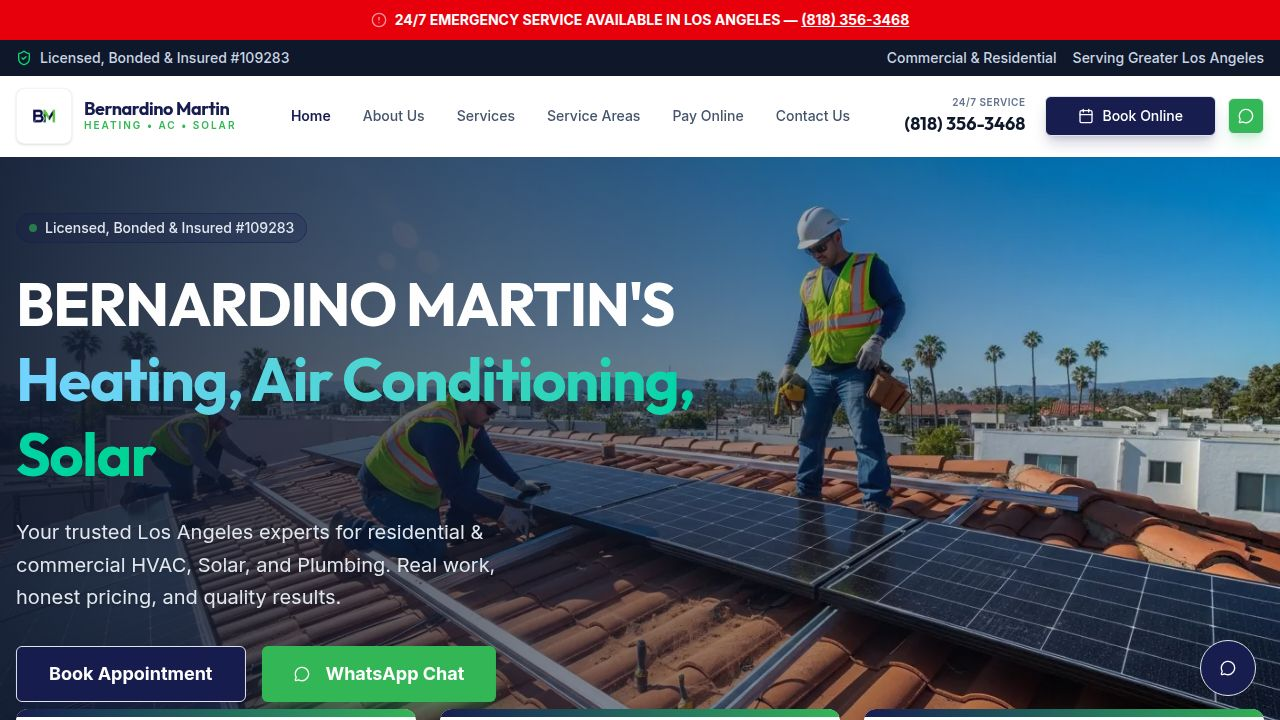
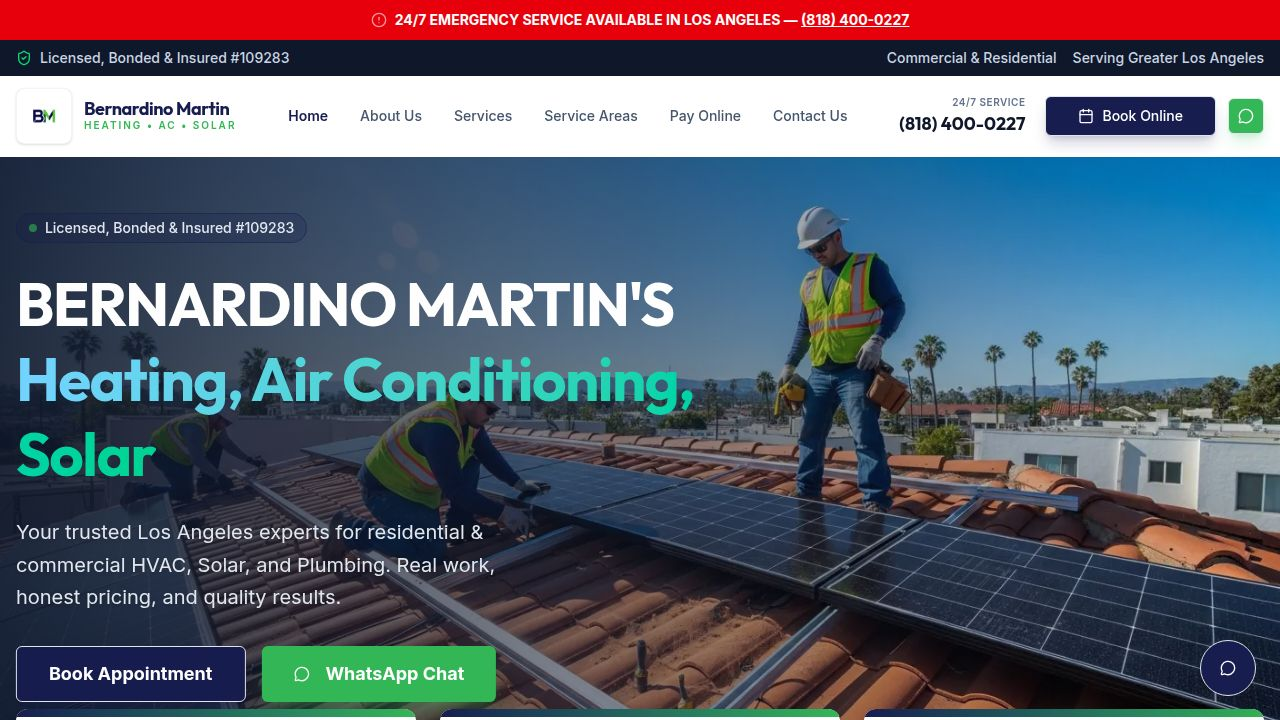
Update company phone number across the entire website
Update the main company phone number and WhatsApp contact number in constants, meta tags, and documentation files to reflect the new number (818) 400-0227.

Replit-Commit-Author: Agent
Replit-Commit-Session-Id: 8f2a5565-2991-4a3f-bda9-e9a005cc0596
Replit-Commit-Checkpoint-Type: full_checkpoint
Replit-Commit-Event-Id: 15adadcb-a021-4114-baa9-52d3e17c68fc
Replit-Commit-Screenshot-Url: https://storage.googleapis.com/screenshot-production-us-central1/9303f534-1fa0-476c-8054-7c4ab3cf4be2/8f2a5565-2991-4a3f-bda9-e9a005cc0596/9RzI3pu
Replit-Helium-Checkpoint-Created: true

diff --git a/client/index.html b/client/index.html
@@ -4,7 +4,7 @@
     <meta charset="UTF-8" />
     <meta name="viewport" content="width=device-width, initial-scale=1.0, maximum-scale=5" />
     <title>Bernardino Martin HVAC | #1 Heating, AC, Solar & Plumbing in Los Angeles</title>
-    <meta name="description" content="Bernardino Martin's Heating, Air Conditioning & Solar — Licensed HVAC contractors in Los Angeles. AC repair, heating installation, solar panels & plumbing. 24/7 emergency service. Call (818) 356-3468." />
+    <meta name="description" content="Bernardino Martin's Heating, Air Conditioning & Solar — Licensed HVAC contractors in Los Angeles. AC repair, heating installation, solar panels & plumbing. 24/7 emergency service. Call (818) 400-0227." />
     
     <meta property="og:title" content="Bernardino Martin HVAC | #1 Heating, AC, Solar & Plumbing in Los Angeles" />
     <meta property="og:description" content="Licensed HVAC & solar contractors in Los Angeles. AC repair, heating installation, solar panels & plumbing. 24/7 emergency service. Free estimates." />

diff --git a/client/src/pages/contact.tsx b/client/src/pages/contact.tsx
@@ -47,7 +47,7 @@ export default function Contact() {
 
   return (
     <Layout>
-      <SEO title="Contact Us – Get a Free HVAC & Solar Estimate in Los Angeles" description="Contact Bernardino Martin HVAC for free estimates on AC repair, heating, solar & plumbing in Los Angeles. Call (818) 356-3468 or message us 24/7." />
+      <SEO title="Contact Us – Get a Free HVAC & Solar Estimate in Los Angeles" description="Contact Bernardino Martin HVAC for free estimates on AC repair, heating, solar & plumbing in Los Angeles. Call (818) 400-0227 or message us 24/7." />
       <div className="container mx-auto px-4 py-20">
         <h1 className="text-4xl font-heading font-bold mb-6 text-center" data-testid="text-contact-title">Contact Us</h1>
         <p className="text-center text-slate-600 mb-12 max-w-2xl mx-auto">

diff --git a/client/src/pages/services.tsx b/client/src/pages/services.tsx
@@ -9,7 +9,7 @@ import { Check, MessageCircle, Clock } from "lucide-react";
 export default function Services() {
   return (
     <Layout>
-      <SEO title="HVAC, Solar & Plumbing Services in Los Angeles" description="AC repair, heating installation, solar panel systems & plumbing services in Los Angeles. Licensed technicians, same-day service & free estimates. Call (818) 356-3468." />
+      <SEO title="HVAC, Solar & Plumbing Services in Los Angeles" description="AC repair, heating installation, solar panel systems & plumbing services in Los Angeles. Licensed technicians, same-day service & free estimates. Call (818) 400-0227." />
       
       {/* Hero Section */}
       <section className="bg-slate-900 text-white py-20 relative overflow-hidden">

diff --git a/client/src/pages/home.tsx b/client/src/pages/home.tsx
@@ -14,7 +14,7 @@ export default function Home() {
     <Layout>
       <SEO 
         title="Los Angeles HVAC, Solar & Plumbing Services" 
-        description={`${COMPANY_NAME} — Licensed & insured heating, air conditioning, solar panel installation & plumbing in Los Angeles. 24/7 emergency service. Call (818) 356-3468 for a free estimate.`}
+        description={`${COMPANY_NAME} — Licensed & insured heating, air conditioning, solar panel installation & plumbing in Los Angeles. 24/7 emergency service. Call (818) 400-0227 for a free estimate.`}
       />
       
       {/* Hero Section - Using Real Job Photo */}

diff --git a/client/src/lib/constants.ts b/client/src/lib/constants.ts
@@ -3,10 +3,10 @@ import {
   MessageCircle, Droplets, Fan, Settings, Flame, PenTool 
 } from "lucide-react";
 
-export const COMPANY_PHONE = "(818) 356-3468";
+export const COMPANY_PHONE = "(818) 400-0227";
 export const COMPANY_NAME = "BERNARDINO MARTIN'S Heating Air Conditioning, Solar";
 
-export const WHATSAPP_NUMBER = "18183563468";
+export const WHATSAPP_NUMBER = "18184000227";
 
 export function getWhatsAppLink(message: string = "Hello, I would like to inquire about your services.") {
   return `https://wa.me/${WHATSAPP_NUMBER}?text=${encodeURIComponent(message)}`;

diff --git a/replit.md b/replit.md
@@ -122,8 +122,8 @@ The project follows a three-directory monorepo pattern:
 - **Recharts** — Chart components (available but may not be actively used on all pages)
 
 ### Communication Integrations
-- **WhatsApp** — Deep links to WhatsApp for customer communication (configured with business phone number `18183563468`)
-- **Phone** — Click-to-call links using company phone `(818) 356-3468`
+- **WhatsApp** — Deep links to WhatsApp for customer communication (configured with business phone number `18184000227`)
+- **Phone** — Click-to-call links using company phone `(818) 400-0227`
 
 ### Build/Dev Tooling
 - **Vite** — Frontend build tool with HMR
